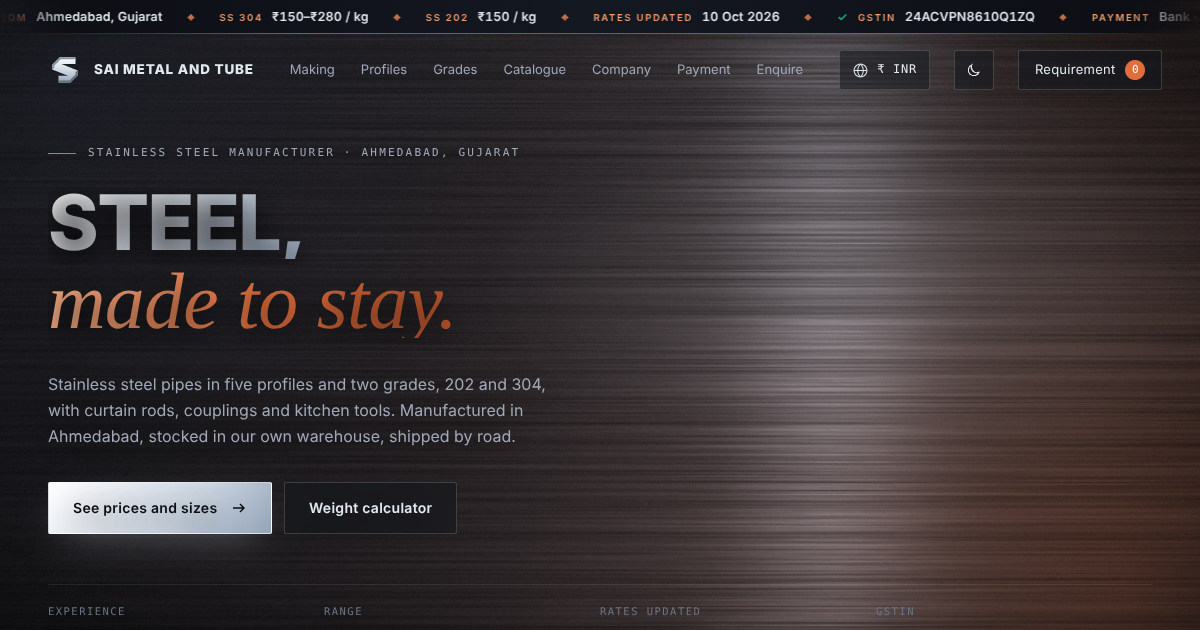
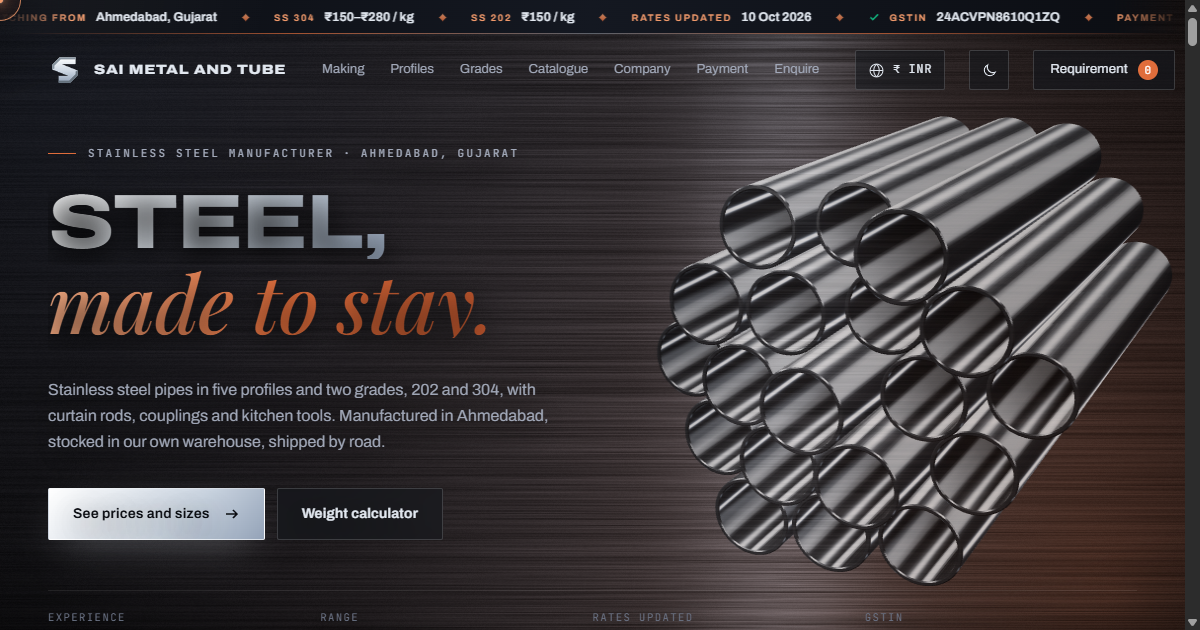
feat: optimize cross-platform smooth scrolling, hardware acceleration, and HD preview card

diff --git a/assets/js/main.js b/assets/js/main.js
@@ -613,14 +613,9 @@ renderRail();
   rail.addEventListener('click',e=>{ if(moved){ e.preventDefault(); return; } const t=e.target.closest('[data-tile]'); if(!t) return; setCategory(t.dataset.tile); go('#catTools'); });
   if(finePointer){
     let activeTile = null, tileRect = null;
-    addEventListener('pointermove',e=>{
-      if(down){
-        const dx=e.clientX-down.x;
-        if(Math.abs(dx)>5){ moved=true; rail.classList.add('dragging'); }
-        if(moved) rail.scrollLeft=down.s-dx;
-        return;
-      }
-      const t = e.target ? e.target.closest('#catRail .tile') : null;
+    rail.addEventListener('pointermove',e=>{
+      if(down) return;
+      const t = e.target ? e.target.closest('.tile') : null;
       if (!t) {
         if (activeTile) { activeTile.style.transform = ''; activeTile = null; tileRect = null; }
         return;
@@ -641,11 +636,17 @@ renderRail();
         t.style.transform = `perspective(800px) rotateY(${(x - .5) * 8}deg) rotateX(${(-y + .5) * 6}deg) translateY(-4px)`;
       }
     }, { passive: true });
+    addEventListener('pointermove',e=>{
+      if(!down) return;
+      const dx=e.clientX-down.x;
+      if(Math.abs(dx)>5){ moved=true; rail.classList.add('dragging'); }
+      if(moved) rail.scrollLeft=down.s-dx;
+    }, { passive: true });
     rail.addEventListener('pointerleave', () => {
       if (activeTile) { activeTile.style.transform = ''; activeTile = null; }
       tileRect = null;
     });
-    addEventListener('pointerdown',e=>{ if(e.button!==0) return; down={x:e.clientX,s:rail.scrollLeft}; moved=false; });
+    rail.addEventListener('pointerdown',e=>{ if(e.button!==0) return; down={x:e.clientX,s:rail.scrollLeft}; moved=false; });
     addEventListener('pointerup',()=>{ if(!down) return; down=null; rail.classList.remove('dragging'); setTimeout(()=>moved=false,0); });
   }
   const step=()=>(rail.querySelector('.tile')?.offsetWidth||260)*2+28;
@@ -811,16 +812,19 @@ if(finePointer && !reduceMotion){ document.documentElement.classList.add('has-cu
 if(window.Lenis && !reduceMotion){
   try {
     lenis = new Lenis({
-      duration: 1.05,
+      duration: 1.15,
       easing: t => Math.min(1, 1.001 - Math.pow(2, -10 * t)),
       orientation: 'vertical',
       gestureOrientation: 'vertical',
       smoothWheel: true,
-      wheelMultiplier: 0.95,
-      touchMultiplier: 1.5,
+      syncTouch: true,
+      syncTouchLerp: 0.08,
+      touchInertiaMultiplier: 35,
+      wheelMultiplier: 1.0,
+      touchMultiplier: 1.25,
       infinite: false
     });
-    document.documentElement.classList.add('has-lenis');
+    document.documentElement.classList.add('has-lenis', 'lenis', 'lenis-smooth');
     if(window.ScrollTrigger){
       lenis.on('scroll', ScrollTrigger.update);
     }
@@ -828,6 +832,7 @@ if(window.Lenis && !reduceMotion){
       gsap.ticker.add(time => {
         lenis.raf(time * 1000);
       });
+      gsap.ticker.lagSmoothing(0);
     } else {
       const raf = time => {
         lenis.raf(time);
@@ -860,8 +865,9 @@ function heroIn(){ if(!window.gsap||reduceMotion) return;
   gsap.from('.hero h1 .line>span',{yPercent:80,opacity:.1,duration:1.2,stagger:.1,ease:'expo.out'});
   gsap.from(['.hero .eyebrow','.hero .lede','.hero-ctas','.hero-facts','.scroll-cue'],{y:22,opacity:.15,duration:1,stagger:.06,ease:'power3.out',delay:.1}); }
 function finishIntro(){ if(introDone) return; introDone=true;
-  if(intro){ intro.classList.add('done'); heroIn(); setTimeout(()=>{ try{intro.remove();}catch(e){} }, 700); } }
-if(reduceMotion){ document.documentElement.classList.add('no-intro'); introDone=true; }
+  if(intro){ intro.classList.add('done'); heroIn(); setTimeout(()=>{ try{intro.remove();}catch(e){} }, 450); } }
+const isBot = /bot|crawler|spider|headless|vercel|googlebot|lighthouse/i.test(navigator.userAgent);
+if(reduceMotion || isBot){ document.documentElement.classList.add('no-intro'); introDone=true; if(intro) intro.remove(); heroIn(); }
 setTimeout(finishIntro, 50);
 
 if(window.gsap){
@@ -1218,15 +1224,20 @@ addEventListener('resize', ()=>{ lastActive = -2; });
     const pr=stageSecMetrics.profiles||{top:vh*3,height:vh*2.2,bottom:vh*5.2};
     const en=stageSecMetrics.enquire||{top:vh*10,height:vh,bottom:vh*11};
     const pf=clamp01((y-mk.top)/(mk.height-vh||1)), pp=clamp01((y-pr.top)/(pr.height-vh||1));
-    fRail.style.transform=`scaleX(${pf.toFixed(3)})`; pRail.style.transform=`scaleX(${pp.toFixed(3)})`;
+    const pfStr = `scaleX(${pf.toFixed(3)})`, ppStr = `scaleX(${pp.toFixed(3)})`;
+    if(fRail.style.transform !== pfStr) fRail.style.transform = pfStr;
+    if(pRail.style.transform !== ppStr) pRail.style.transform = ppStr;
     tgt.st=0; tgt.dim=0;
     if(mk.top>mid){ tgt.mode='bundle'; tgt.sp=0; tgt.morph=0; tgt.c=0; tgt.w=0; tgt.pol=0; }
     else if(mk.bottom>mid){ tgt.mode='forming'; tgt.sp=1; tgt.morph=0;
       tgt.c=sm(.07,.5,pf); tgt.w=clamp01((pf-.53)/.25); tgt.pol=clamp01((pf-.8)/.15); tgt.fb=sm(.86,.99,pf);
       setStep(pf<.1?0:pf<.52?1:pf<.79?2:3);
-      fBendEl.textContent=Math.round(tgt.c*360)+'°';
-      fSeamEl.textContent= tgt.w<=0?'OPEN': tgt.w<1?`WELDING ${Math.round(tgt.w*100)}%`: tgt.pol<1?`POLISHING ${Math.round(tgt.pol*100)}%`:'MIRROR FINISH';
-      fSeamEl.className = (tgt.w>0&&tgt.w<1)?'hot':''; }
+      const bText = Math.round(tgt.c*360)+'°';
+      if(fBendEl.textContent !== bText) fBendEl.textContent = bText;
+      const sText = tgt.w<=0?'OPEN': tgt.w<1?`WELDING ${Math.round(tgt.w*100)}%`: tgt.pol<1?`POLISHING ${Math.round(tgt.pol*100)}%`:'MIRROR FINISH';
+      if(fSeamEl.textContent !== sText) fSeamEl.textContent = sText;
+      const sCls = (tgt.w>0&&tgt.w<1)?'hot':'';
+      if(fSeamEl.className !== sCls) fSeamEl.className = sCls; }
     else if(pr.bottom>mid){ tgt.mode='profile'; tgt.sp=1; tgt.c=1; tgt.w=1; tgt.pol=1;
       const u=clamp01((pp-.06)/.86)*4, k=Math.min(3,Math.floor(u)), f=u-k; tgt.morph = u>=4?4:k+sm(.3,.7,f);
       setProfile(Math.round(tgt.morph), false); }

diff --git a/assets/css/styles.css b/assets/css/styles.css
@@ -29,9 +29,11 @@ img,canvas{max-width:100%}
 [hidden]{display:none!important}
 section[id],.calc[id],.cat-tools[id]{scroll-margin-top:calc(var(--hdr, 104px) + 16px)}
 html{background:var(--bg)}
-@media (prefers-reduced-motion:no-preference){html:not(.has-lenis){scroll-behavior:smooth}}
+@media (prefers-reduced-motion:no-preference){html:not(.has-lenis):not(.lenis){scroll-behavior:smooth}}
 html.lenis,html.lenis body{height:auto}
-.lenis.lenis-smooth{scroll-behavior:auto!important}
+html.lenis,html.has-lenis,.lenis.lenis-smooth{scroll-behavior:auto!important}
+.lenis.lenis-smooth [data-lenis-prevent]{overscroll-behavior:contain}
+.lenis.lenis-stopped{overflow:hidden}
 body{margin:0;background-color:var(--bg);color:var(--platinum);font-family:var(--f-body);font-size:16px;line-height:1.65;-webkit-font-smoothing:antialiased;overflow-x:clip}
 body::before{content:"";position:fixed;inset:0 0 auto;height:env(safe-area-inset-top,0px);z-index:60;background:var(--bg)}
 a{color:inherit}
@@ -45,11 +47,11 @@ img{display:block}
 @media (min-width:900px){.wrap{padding-left:max(48px,env(safe-area-inset-left,0px));padding-right:max(48px,env(safe-area-inset-right,0px))}}
 
 /* Background: brushed stainless sheet under a moving light (WebGL) */
-#bg{position:fixed;inset:0;width:100%;height:100%;z-index:0;display:block;pointer-events:none}
+#bg{position:fixed;inset:0;width:100%;height:100%;z-index:0;display:block;pointer-events:none;transform:translateZ(0);will-change:transform}
 .no-bg body{background:radial-gradient(60% 50% at 92% 6%,rgba(224,109,59,.2),transparent 70%),radial-gradient(50% 50% at 4% 96%,rgba(90,120,170,.14),transparent 70%),repeating-linear-gradient(0deg,rgba(255,255,255,.012) 0 1px,transparent 1px 3px),var(--bg)}
 
 /* Stage */
-#stage{position:fixed;inset:0;width:100%;height:100%;z-index:0;display:block;pointer-events:none}
+#stage{position:fixed;inset:0;width:100%;height:100%;z-index:0;display:block;pointer-events:none;transform:translateZ(0);will-change:transform}
 .stage-fallback{position:fixed;inset:0;z-index:0;pointer-events:none;display:none;background:radial-gradient(50% 45% at 75% 45%,rgba(203,213,225,.14),transparent 70%)}
 .no-gl .stage-fallback{display:block}
 .vignette{position:fixed;inset:0;z-index:1;pointer-events:none;background:radial-gradient(120% 90% at 50% 50%,transparent 55%,rgba(0,0,0,.6) 100%)}
@@ -57,15 +59,15 @@ img{display:block}
 main,footer{position:relative;z-index:3}
 
 /* Intro */
-.intro{position:fixed;inset:0;z-index:100;background:var(--bg);display:grid;place-items:center;transition:transform 1.1s cubic-bezier(.76,0,.24,1)}
-.intro.done{transform:translateY(-100%)}
+.intro{position:fixed;inset:0;z-index:100;background:var(--bg);display:grid;place-items:center;transition:transform .35s cubic-bezier(.76,0,.24,1),opacity .3s ease}
+.intro.done{transform:translateY(-100%);opacity:0;pointer-events:none}
 .intro>div{display:grid;justify-items:center;gap:18px}
 .intro svg{width:54px;height:54px}
 .intro-name{font-size:12px;font-weight:500;letter-spacing:.32em;text-transform:uppercase;color:var(--body)}
 .intro-line{display:block;width:180px;height:1px;background:var(--line);overflow:hidden}
 .intro-line b{display:block;height:100%;background:var(--copper-grad);transform-origin:left;animation:fill 1.1s var(--ease) forwards}
 @keyframes fill{from{transform:scaleX(0)}to{transform:scaleX(1)}}
-.no-intro .intro{display:none}
+.no-intro .intro{display:none!important}
 
 /* Header: trust bar + glass nav */
 .top{position:fixed;inset:0 0 auto;z-index:50;padding-top:env(safe-area-inset-top,0px)}

diff --git a/index.html b/index.html
@@ -16,6 +16,9 @@
 <meta property="og:title" content="Sai Metal And Tube · Stainless Steel Pipes">
 <meta property="og:description" content="Stainless steel pipes and profiles from Ahmedabad: round, square, rectangular, D-shape and oval sections in grades 202 and 304.">
 <meta property="og:image" content="https://sai-metal-and-tube-three.vercel.app/assets/img/og-image.png">
+<meta property="og:image:width" content="1200">
+<meta property="og:image:height" content="630">
+<meta property="og:image:alt" content="Sai Metal And Tube — Stainless Steel Pipes and Profiles">
 <meta property="og:url" content="https://sai-metal-and-tube-three.vercel.app/">
 <meta name="twitter:card" content="summary_large_image">
 <meta name="twitter:title" content="Sai Metal And Tube · Stainless Steel Pipes">
